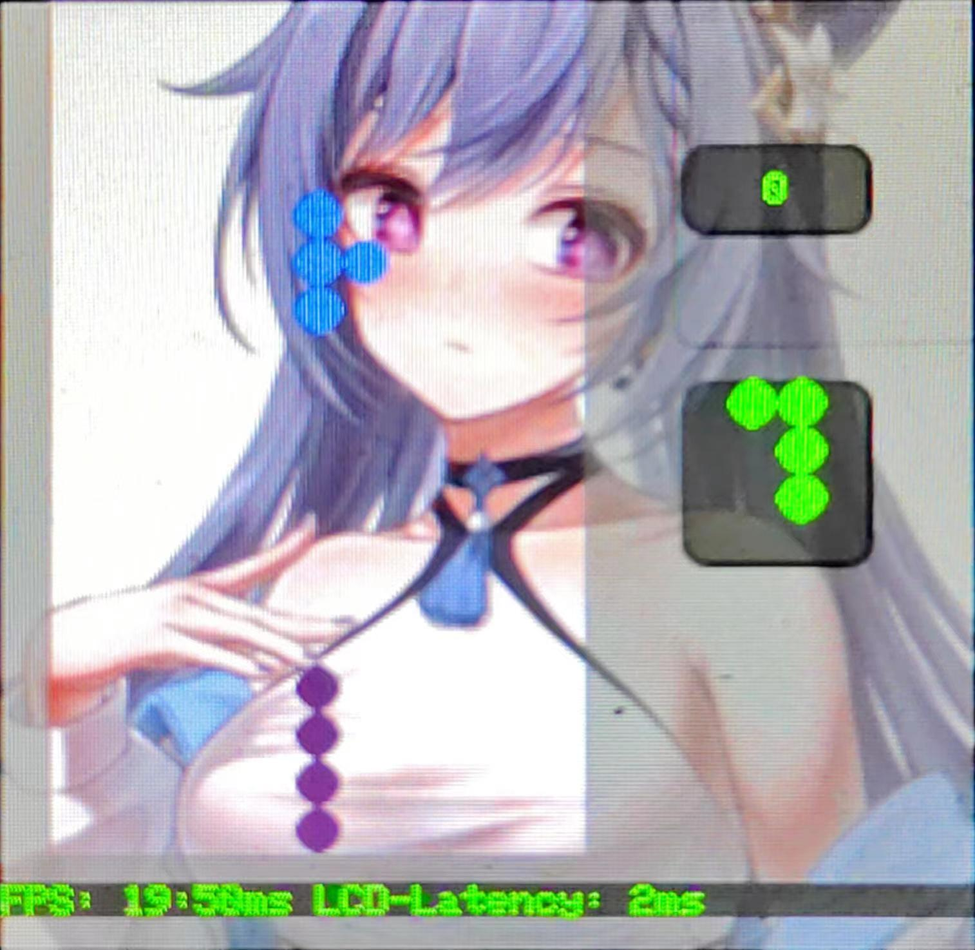
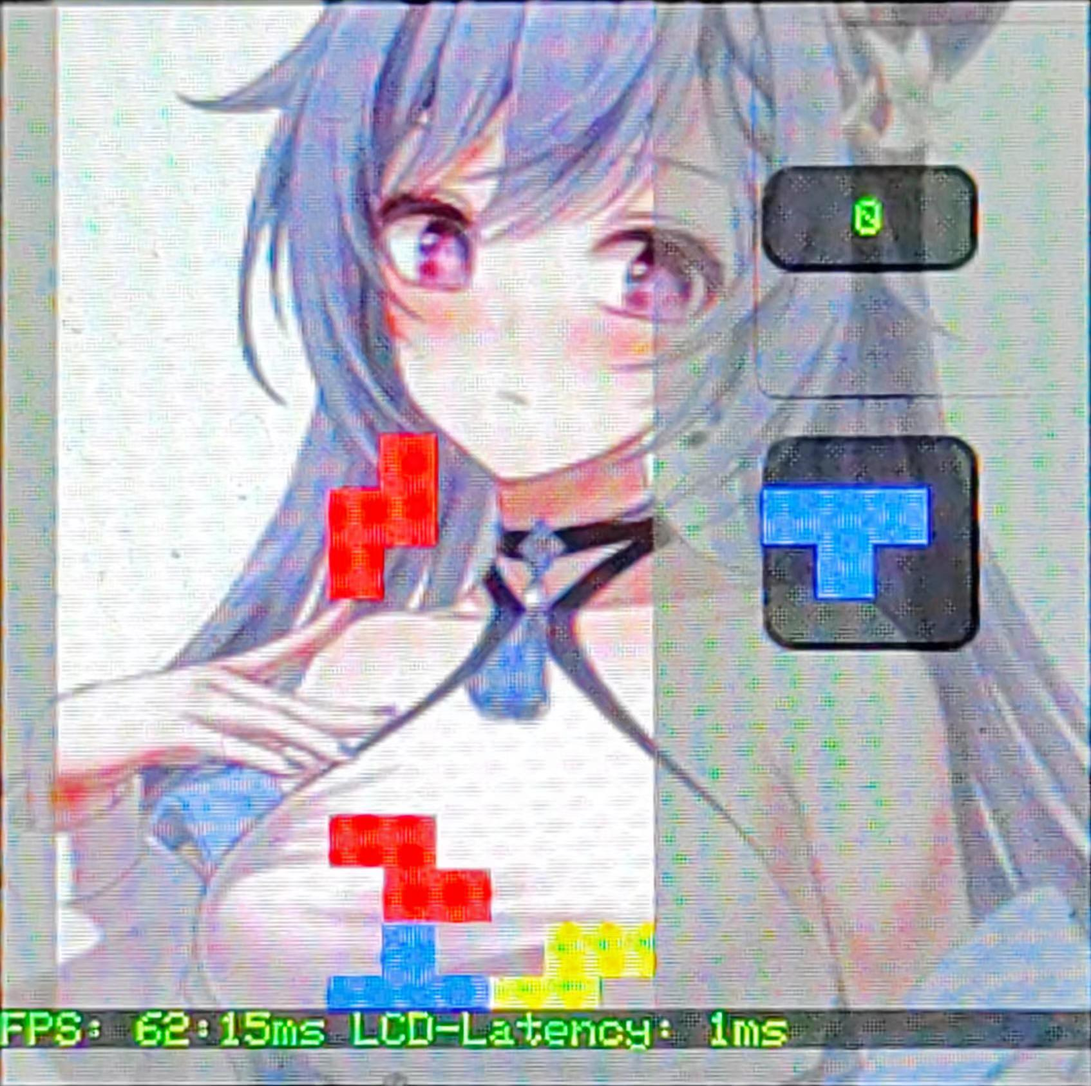
Modify the rounded corners of the game interface to squares

diff --git a/examples/tetris/tnsq_tetris_draw.c b/examples/tetris/tnsq_tetris_draw.c
@@ -220,28 +220,92 @@ static void _tetris_user_map_func(rt_uint8_t idx, arm_2d_tile_t const *ptTile, c
             );
 			break;
 		case 1:
-			draw_round_corner_box(ptTile, &__user_map_canvas, GLCD_COLOR_BLUE, 255, bIsNewFrame);
+			//draw_round_corner_box(ptTile, &__user_map_canvas, GLCD_COLOR_BLUE, 255, bIsNewFrame);
+			arm_2dp_fill_colour_with_opacity
+			(
+				NULL,
+				ptTile,
+				&__user_map_canvas,
+				(__arm_2d_color_t){GLCD_COLOR_BLUE},
+				255
+			);
 			break;
 		case 2:
-			draw_round_corner_box(ptTile, &__user_map_canvas, GLCD_COLOR_GREEN, 255, bIsNewFrame);
+			//draw_round_corner_box(ptTile, &__user_map_canvas, GLCD_COLOR_GREEN, 255, bIsNewFrame);
+			arm_2dp_fill_colour_with_opacity
+			(
+				NULL,
+				ptTile,
+				&__user_map_canvas,
+				(__arm_2d_color_t){GLCD_COLOR_GREEN},
+				255
+			);
 			break;
 		case 3:
-			draw_round_corner_box(ptTile, &__user_map_canvas, GLCD_COLOR_CYAN, 255, bIsNewFrame);
+			//draw_round_corner_box(ptTile, &__user_map_canvas, GLCD_COLOR_CYAN, 255, bIsNewFrame);
+			arm_2dp_fill_colour_with_opacity
+			(
+				NULL,
+				ptTile,
+				&__user_map_canvas,
+				(__arm_2d_color_t){GLCD_COLOR_CYAN},
+				255
+			);
 			break;
 		case 4:
-			draw_round_corner_box(ptTile, &__user_map_canvas, GLCD_COLOR_RED, 255, bIsNewFrame);
+			//draw_round_corner_box(ptTile, &__user_map_canvas, GLCD_COLOR_RED, 255, bIsNewFrame);
+			arm_2dp_fill_colour_with_opacity
+			(
+				NULL,
+				ptTile,
+				&__user_map_canvas,
+				(__arm_2d_color_t){GLCD_COLOR_RED},
+				255
+			);
 			break;
 		case 5:
-			draw_round_corner_box(ptTile, &__user_map_canvas, GLCD_COLOR_YELLOW, 255, bIsNewFrame);
+			//draw_round_corner_box(ptTile, &__user_map_canvas, GLCD_COLOR_YELLOW, 255, bIsNewFrame);
+			arm_2dp_fill_colour_with_opacity
+			(
+				NULL,
+				ptTile,
+				&__user_map_canvas,
+				(__arm_2d_color_t){GLCD_COLOR_YELLOW},
+				255
+			);
 			break;
 		case 6:
-			draw_round_corner_box(ptTile, &__user_map_canvas, GLCD_COLOR_OLIVE, 255, bIsNewFrame);
+			//draw_round_corner_box(ptTile, &__user_map_canvas, GLCD_COLOR_OLIVE, 255, bIsNewFrame);
+			arm_2dp_fill_colour_with_opacity
+			(
+				NULL,
+				ptTile,
+				&__user_map_canvas,
+				(__arm_2d_color_t){GLCD_COLOR_OLIVE},
+				255
+			);
 			break;
 		case 7:
-			draw_round_corner_box(ptTile, &__user_map_canvas, GLCD_COLOR_PURPLE, 255, bIsNewFrame);
+			//draw_round_corner_box(ptTile, &__user_map_canvas, GLCD_COLOR_PURPLE, 255, bIsNewFrame);
+			arm_2dp_fill_colour_with_opacity
+			(
+				NULL,
+				ptTile,
+				&__user_map_canvas,
+				(__arm_2d_color_t){GLCD_COLOR_PURPLE},
+				255
+			);
 			break;
 		default:
-			draw_round_corner_box(ptTile, &__user_map_canvas, GLCD_COLOR_WHITE, 0, bIsNewFrame);
+			//draw_round_corner_box(ptTile, &__user_map_canvas, GLCD_COLOR_WHITE, 0, bIsNewFrame);
+			arm_2dp_fill_colour_with_opacity
+			(
+				NULL,
+				ptTile,
+				&__user_map_canvas,
+				(__arm_2d_color_t){GLCD_COLOR_WHITE},
+				0
+			);
 			break;
 		}
     }

diff --git a/docs/example_tetris_en.md b/docs/example_tetris_en.md
@@ -100,8 +100,8 @@ Taking the tetris game as an example, we will introduce how to implement a multi
   </tr>
   <tr>
     <th> Game interface FPS </th>
-    <td style="text-align:center"> 49:20ms </td>
-    <td style="text-align:center"> 41:24ms </td>
+    <td style="text-align:center"> 62:15ms </td>
+    <td style="text-align:center"> 59:16ms </td>
     <td style="text-align:center"> —— </td>
   </tr>
   <tr>

diff --git a/docs/example_tetris_cn.md b/docs/example_tetris_cn.md
@@ -100,8 +100,8 @@
   </tr>
   <tr>
     <th> 游戏界面 FPS </th>
-    <td style="text-align:center"> 49：20ms </td>
-    <td style="text-align:center"> 41：24ms </td>
+    <td style="text-align:center"> 62：15ms </td>
+    <td style="text-align:center"> 59：16ms </td>
     <td style="text-align:center"> —— </td>
   </tr>
   <tr>
